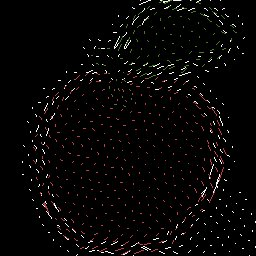
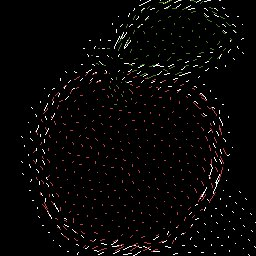
yay, it walks the line, joins single paths and optimizes them. needs improvement but a good start

diff --git a/vectorize.py b/vectorize.py
@@ -383,6 +383,46 @@ def find_pixel_with_color(img_in, color):
             return (x,y)
    return False
 
+def find_brightest_pixel(img_in):
+   '''returns the 1st coordinate of a pixel of specified color'''
+
+
+   maxbr = 0
+   maxpos = False
+
+   width,height = img_in.get_size()
+   for y in range(0,height):
+      for x in range(0,width):
+         color_in = img_in.get_at((x,y))
+         brightness = sum(color_in[:2])/3
+         if brightness > maxbr:
+            maxbr = brightness
+            maxpos = (x,y)
+   return maxpos, maxbr
+
+
+def find_brightest_pixel_with_spiral(img_in,startpos,maxlen,startang):
+   '''returns the 1st coordinate of a pixel of specified color'''
+   width,height = img_in.get_size()
+
+   maxbr = 0
+   maxpos = False
+
+   for r in range(1,maxlen):
+      for a in range(0+int(startang),360+int(startang)):
+         probepos = [int(startpos[0] + math.cos(a*2*math.pi/360)*r),int(startpos[1] + math.sin(a*2*math.pi/360)*r) ]
+         x,y = probepos
+         if x>=0 and y>=0 and x<width and y<height:
+               color = img_in.get_at((x,y))
+
+               brightness = sum(color[:2])/3
+               if brightness > maxbr:
+                  maxbr = brightness
+                  maxpos = probepos
+   return maxpos, maxbr
+
+         
+
 
 def floodfill(img_in,startpos,color):
    '''floodfill from position with color'''
@@ -551,6 +591,146 @@ def motionsfind(img_in, mask, radius):
   
    return found_points
 
+def edgewalk(img):
+   '''in image showing edges, walks along the edge and creates a polygon path'''
+
+
+
+   img_clone = pygame.Surface(img.get_size())
+   img_clone.blit(img,(0,0))
+
+
+   paths = []
+
+   radius = 3
+
+   brightness_min = 5
+
+   while True:
+      position, br = find_brightest_pixel(img_clone)
+      print position, br
+      if not position or br < brightness_min:
+         break
+      path = []
+      path.append(position)
+      # position is the first pixel we started at.
+      img_clone.set_at(position,(0,0,0)) # deactivate pixel
+      # now, in a spiralish way, find next pixel
+      angle2 = 0
+      while True:
+         position, br = find_brightest_pixel_with_spiral(img_clone,position,radius+3,angle2)
+         if not position or br < brightness_min:
+            break
+         lastdistance = math.pow(math.pow(position[0]-path[-1][0],2) + math.pow(position[1]-path[-1][1],2),0.5)
+         lastangle = 360
+         if len(path)>1:
+            angle1 = math.atan2(position[1]-path[-1][1],position[0]-path[-1][0])
+            angle2 = math.atan2(path[-1][1]-path[-2][1],path[-1][0]-path[-2][0])
+            lastangle = abs(angle1-angle2)*float(360)/(2*math.pi)
+            
+         
+         #if float(lastdistance)*lastangle > 1:
+         if True:
+            path.append(position)
+         pygame.draw.circle(img_clone, (0,0,0), position, radius, 0)
+
+      if len(path)>4:
+         paths.append(path)
+
+
+
+   print "found %i paths"%len(paths)
+
+   paths = pathcombiner(paths)
+   paths = optimizepaths(paths)
+
+   print "optimized to %i paths"%len(paths)
+
+   return paths
+
+def optimizepaths(paths):
+   newpaths = []
+   for path in paths:
+      newpath = []
+      for position in path:
+         lastangle = 360
+         lastdistance = 999
+         if len(newpath)>1:
+            lastdistance = math.pow(math.pow(position[0]-newpath[-1][0],2) + math.pow(position[1]-newpath[-1][1],2),0.5)
+            angle1 = math.atan2(position[1]-newpath[-1][1],position[0]-newpath[-1][0])
+            angle2 = math.atan2(newpath[-1][1]-newpath[-2][1],newpath[-1][0]-newpath[-2][0])
+            lastangle = abs(angle1-angle2)*float(360)/(2*math.pi)
+   
+         if float(lastdistance)*lastangle > 100:
+            newpath.append(position)
+      newpaths.append(newpath)
+   return newpaths
+
+def pathcombiner(paths):
+   # now we could check each start/end of every path and combine the two paths if they are closer together than a threshold
+   # if start/end of same path are together closer than threshold but not equal, add first point to end to close the path
+
+   while True:
+
+      # collect all the start/end points
+      startend_points = []
+      for i in range(0,len(paths)):
+         path = paths[i]
+         if len(path)>1:
+            startend_points.append([i,0,path[0]])
+            startend_points.append([i,-1,path[-1]])
+
+      redo = False
+      # check each to start/end points
+      for i in range(0,len(startend_points)):
+         for j in range(0,len(startend_points)):
+            point1 = startend_points[i]
+            point2 = startend_points[j]
+
+            distance = math.pow(math.pow(point1[2][0]-point2[2][0],2) + math.pow(point1[2][1]-point2[2][1],2),0.5)
+
+
+            if distance < 10 and distance > 2: # magic values, snap below 10, but ignore below 2
+               if point1[0] == point2[0]: # same path
+                  if point1[1] == 0 and point2[1] == -1: # but start/end selected
+                     paths[point1[0]].append(paths[point2[0]][0])
+                     redo = True
+                  if point1[1] == -1 and point2[1] == 0: # but end/start selected
+                     paths[point2[0]].append(paths[point1[0]][0])
+
+               else: # different paths
+                  if point1[1] == 0 and point2[1] == 0: # heading face to face
+                     paths[point2[0]]+=list(reversed(paths[point1[0]]))
+                     paths[point1[0]] = []
+                     redo = True
+                  if point1[1] == -1 and point2[1] == -1: # heading tail to tail
+                     paths[point1[0]]+=list(reversed(paths[point2[0]]))
+                     paths[point2[0]] = []
+                     redo = True
+                  if point1[1] == 0 and point2[1] == -1: # heading face to tail
+                     paths[point2[0]]+=paths[point1[0]]
+                     paths[point1[0]] = []
+                     redo = True
+                  if point1[1] == -1 and point2[1] == 0: # heading tail to face
+                     paths[point1[0]]+=paths[point2[0]]
+                     paths[point2[0]] = []
+                     redo = True
+            if redo:
+               break
+         if redo:
+            break
+
+
+      if not redo:
+         newpaths = []
+         for path in paths:
+            if len(path)>1:
+               newpaths.append(path)
+
+         return newpaths
+                  
+
+
 def main():
    if len(sys.argv)==2: # 1 parameters
 
@@ -642,7 +822,27 @@ def main():
             floodfill(img_bnw, position, (0,0,0)) # eliminate it
 
       img_bnw = blacknwhite(img_bnw,4)
+
+
+      # j) walk the line
+
+      edgepaths = edgewalk(img_blurdif)
+      img_edgepath = pygame.Surface(img_in.get_size())
+      for polygon in edgepaths:
+         lastpoint = False
+         if len(polygon)>1:
+            for point in polygon:
+               if not lastpoint:
+                  lastpoint = point
+               pygame.draw.circle(img_edgepath, (0,255,0),point, 3)
+               pygame.draw.line(img_edgepath, (255,0,0), lastpoint, point, 1)
+               lastpoint = point
+
+      show_image(display, img_edgepath, True)
+      show_image(display, img_edgepath, True)
+      save_image(img_edgepath,"epath-"+sys.argv[1])
       
+      # print edge paths 
 
       # 2. for the room between edges: flood fill until no space left
 
@@ -747,7 +947,7 @@ def main():
 
       # 7. generate strokes for borders.
 
-      # todo.
+      # see 1 j)
 
       # 8. push polygons to HPGL
 
